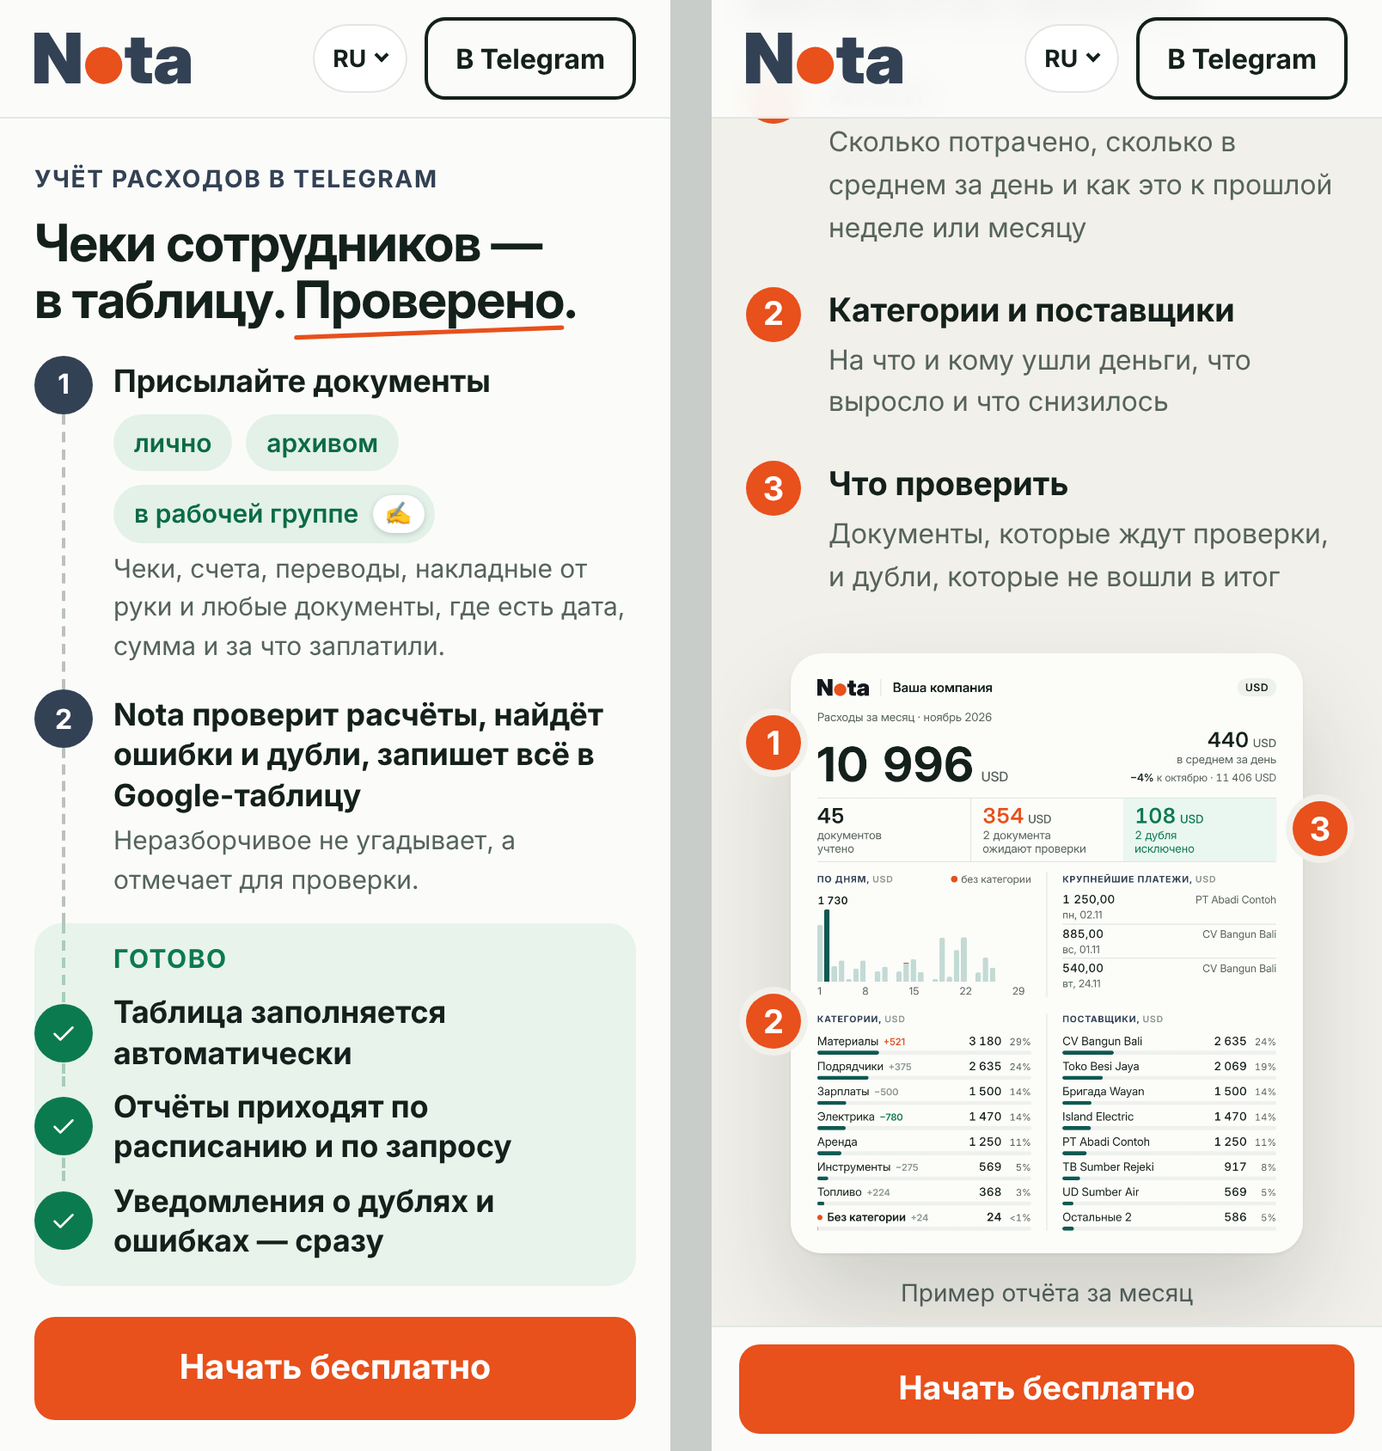
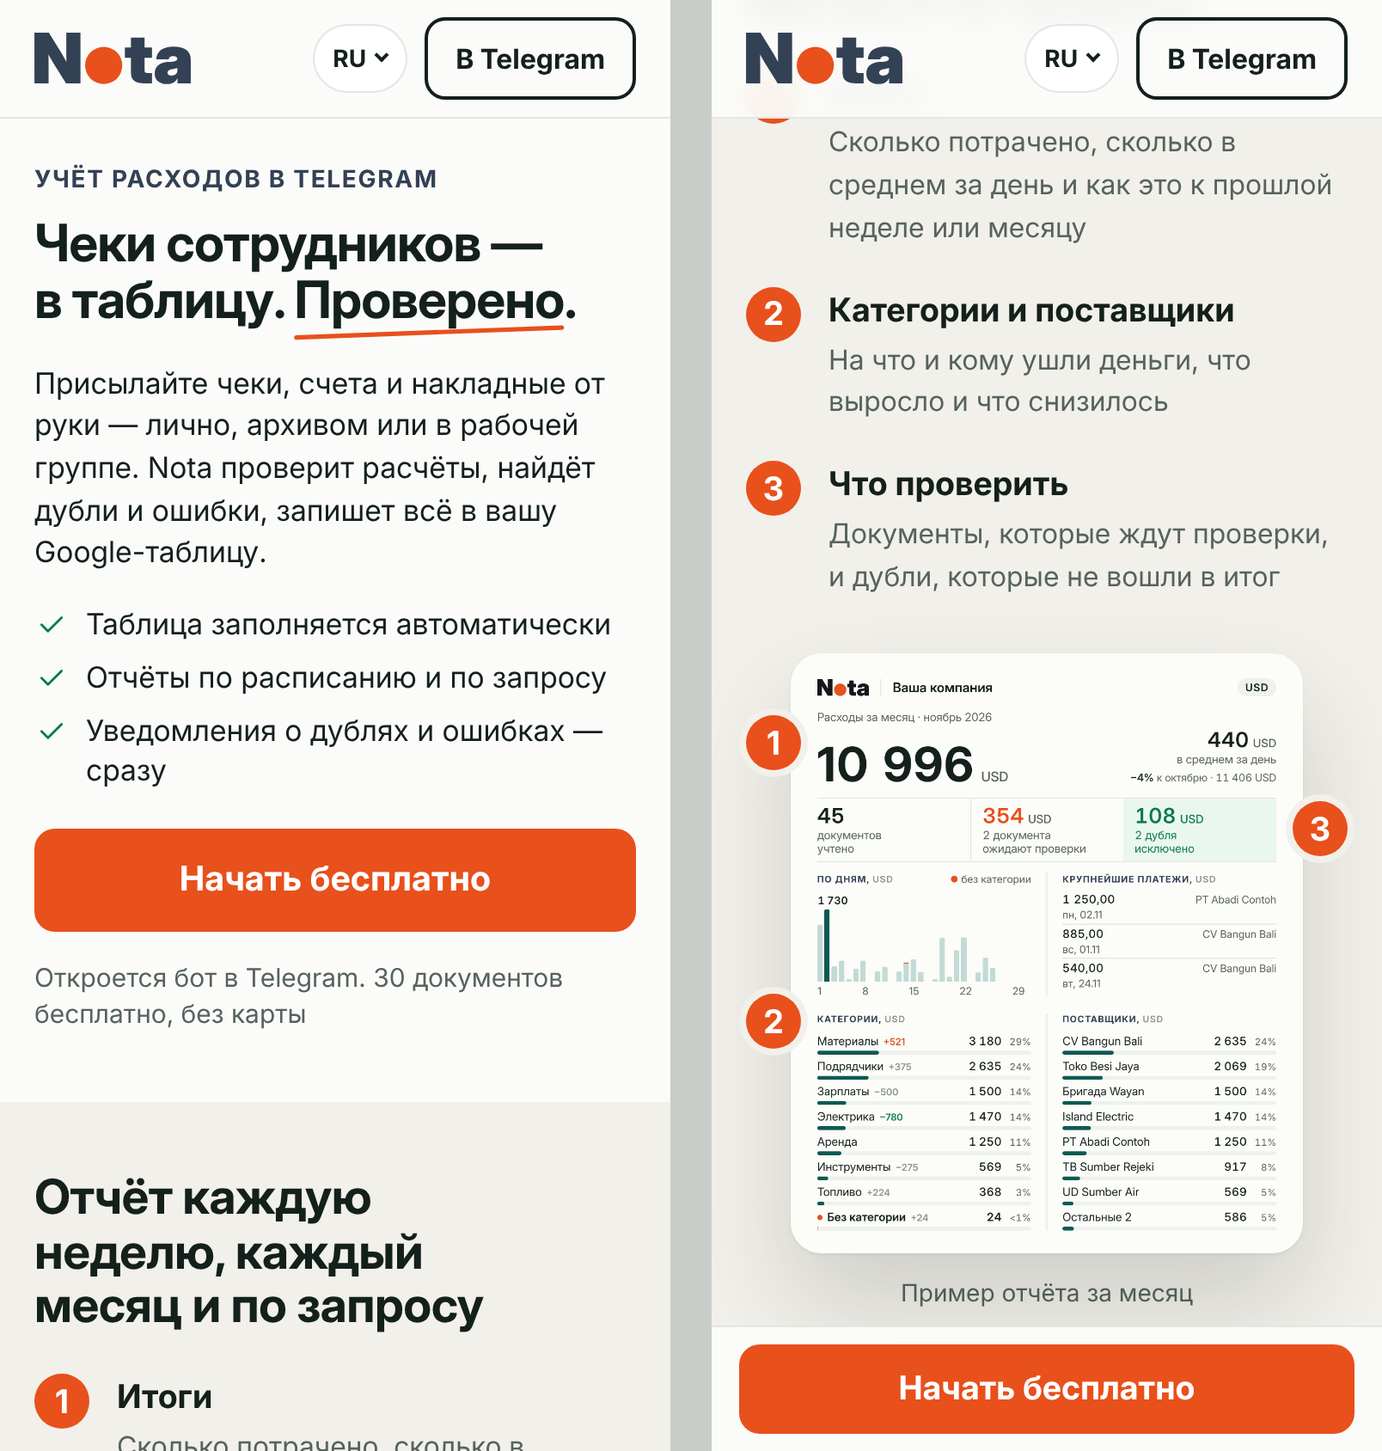
Landing v12 start: simpler first screen (lead, three points, CTA)
Founder: the first screen was overloaded. Removed step circles, dashed
line, method pills, the reaction badge and the Готово panel; the hero
now follows the archive variant's structure.

Claude-Session: https://claude.ai/code/session_01L3HhR7LSGwJtypFbeUeh92

Changed region(s): [[0.0, 0.2464, 0.4664, 1.0]]

diff --git a/nota/src/styles/global.css b/nota/src/styles/global.css
@@ -1107,29 +1107,8 @@ html:not([data-hero="old"]) .v10 .cta-qr, .v10 .cta-qr { max-width: 200px; }
 .v12s .s-hero { padding: 32px 0 48px; }
 .v12s .s-lead h1 { font-size: clamp(32px, 3.8vw, 48px); line-height: 1.1; margin: 0 0 28px; }
 .v12s .s-split { align-items: start; }
-/* Шаги: кружки 1–2 и галочки «Готово» на одной вертикали (x = 18 px), пунктир через их центры */
-.s-flow { list-style: none; margin: 0; padding: 0 0 0 18px; }
-.s-flow > li { display: flex; gap: 16px; align-items: flex-start; position: relative; padding-bottom: 26px; }
-.s-flow > li::before { content: ''; position: absolute; left: 16px; top: 34px; bottom: 0; border-left: 2px dashed #b9c2bd; }
-.s-n, .s-ok { flex: none; position: relative; z-index: 1; width: 34px; height: 34px; border-radius: 50%; display: grid; place-items: center; color: #fff; font-size: 16px; font-weight: 700; }
-.s-n { background: var(--slate); }
-.s-ok { background: var(--green); }
-.s-t { display: block; font-size: 21px; line-height: 1.3; padding-top: 3px; }
-.s-d { display: block; font-size: 16px; line-height: 1.5; color: var(--muted); margin-top: 6px; max-width: 590px; }
-/* Способы — метки-«таблетки», не кнопки (разбор 22.11: были похожи на кнопку и не нажимались) */
-.s-ways { list-style: none; display: flex; flex-wrap: wrap; gap: 8px; margin: 10px 0 0; padding: 0; }
-.s-ways li { display: inline-flex; align-items: center; gap: 8px; font-size: 16px; font-weight: 600; color: var(--green-text); background: #e3f1e9; border-radius: 999px; padding: 6px 14px; }
-/* ✍ — реакция бота на записанный документ, как в Telegram */
-.s-react { display: inline-grid; place-items: center; min-width: 30px; height: 22px; padding: 0 6px; margin-right: -6px; border-radius: 999px; background: #fff; box-shadow: 0 1px 3px rgba(20, 32, 27, .18); font-size: 13px; line-height: 1; }
-.s-done { position: relative; margin: 0 0 30px; padding: 18px 18px 20px 0; background: #e8f3ec; border-radius: 16px; }
-.s-done::before { content: ''; position: absolute; left: 34px; top: 0; height: 52px; border-left: 2px dashed #a9cdb7; }
-.s-done-h { margin: 0 0 14px 68px; font-size: 15px; line-height: 18px; font-weight: 700; letter-spacing: .05em; text-transform: uppercase; color: var(--green); }
-.s-done ul { list-style: none; margin: 0; padding: 0 0 0 18px; }
-.s-done li { display: flex; gap: 16px; align-items: center; position: relative; padding-bottom: 14px; }
-.s-done li:last-child { padding-bottom: 0; }
-.s-done li:not(:last-child)::before { content: ''; position: absolute; left: 16px; top: 34px; bottom: 0; border-left: 2px dashed #a9cdb7; }
-.s-done b { font-size: 20px; line-height: 1.3; }
-.s-ok .icon { color: #fff; }
+/* Левая колонка: подзаголовок, три пункта (как .hero-list у варианта с архивом), кнопка; по центру высоты отчёта */
+.v12s .s-left .lead { max-width: 560px; margin-top: 4px; }
 /* Отчёт с пояснениями */
 .s-notes { list-style: none; margin: 4px 0 32px; padding: 0; display: grid; gap: 22px; }
 .s-notes li { display: flex; gap: 16px; align-items: flex-start; }
@@ -1165,27 +1144,16 @@ html.s-js .v12s .s-story.on .s-mark { opacity: 1; transform: none; }
   html:not([data-rep="plain"]) .v9.v12s .story-fig .s-img { width: min(100%, calc((100vh - 150px) * 0.8538)); margin: 0 auto; }
   html:not([data-rep="plain"]) .v9.v12s #result { min-height: calc(min(609px, 100vh - 150px) + 34px + 112px); }
   .v12s .story-media .wrap { padding-top: 120px; } /* до JS: примерно высота заголовка; скрипт ставит точно */
+  .v12s .s-left { min-height: calc(min(609px, 100vh - 150px) + 34px); } /* первый экран высотой с отчёт: отчёт не свисает в следующий блок */
 }
 @media (max-width: 999px) {
   .v12s .s-fig-hero { display: none; }
 }
 @media (max-width: 640px) {
-  .v12s .s-hero { padding: 14px 0 32px; }
+  .v12s .s-hero { padding: 16px 0 32px; }
   .v12s .s-lead h1 { font-size: 30px; margin-bottom: 16px; }
   .v12s .s-lead .hero-eyebrow { margin-bottom: 10px; }
-  .s-flow { padding-left: 0; }
-  .s-flow > li { gap: 12px; padding-bottom: 14px; }
-  .s-flow > li::before { left: 16px; }
-  .s-t, .s-done b { font-size: 18px; }
-  .s-d { font-size: 15px; margin-top: 4px; }
-  .s-ways { margin-top: 8px; }
-  .s-ways li { font-size: 15px; padding: 5px 12px; }
-  .s-done { padding: 12px 14px 14px 0; margin-bottom: 18px; }
-  .s-done::before { left: 16px; height: 46px; }
-  .s-done-h { margin-left: 46px; margin-bottom: 10px; }
-  .s-done ul { padding-left: 0; }
-  .s-done li { gap: 12px; padding-bottom: 8px; }
-  .s-done li:not(:last-child)::before { left: 16px; }
+  .v12s .s-left .lead { font-size: 17px; line-height: 1.45; margin-bottom: 18px; }
   .s-notes b { font-size: 19px; line-height: 28px; }
   .s-notes li span:not(.s-mark) { font-size: 16px; }
 }

diff --git a/nota/src/data/content-v12.ts b/nota/src/data/content-v12.ts
@@ -12,25 +12,12 @@ export const start = {
   title: 'Чеки сотрудников — в таблицу. Проверено.',
   underline: 'Проверено',
   cta: 'Начать бесплатно',
-  // Разбор 22.11: кнопка не говорила, что откроется Telegram (в шапке то же действие — «Открыть в Telegram»)
-  ctaLine: 'Откроется бот в Telegram. 30 документов бесплатно, без карты и регистрации',
-  send: {
-    title: 'Присылайте документы',
-    // Основатель 22.11: про рабочую группу ничего не пишем — её предложит бот; просто три способа.
-    // У группы — реакция ✍, как в Telegram: бот ставит её на записанный документ (настоящая реакция бота, DESIGN.md).
-    ways: ['лично', 'архивом', 'в рабочей группе'],
-    react: 'в рабочей группе',
-    // Панель 21.11: без «рукописных накладных» результат падал вдвое (G 2 из 20, G2 5 из 20)
-    docs: 'Чеки, счета, переводы, накладные от руки и любые документы, где есть дата, сумма и за что заплатили.',
-  },
-  check: {
-    title: 'Nota проверит расчёты, найдёт ошибки и дубли, запишет всё в Google-таблицу',
-    note: 'Неразборчивое не угадывает, а отмечает для проверки.',
-  },
-  done: {
-    title: 'Готово',
-    items: ['Таблица заполняется автоматически', 'Отчёты приходят по расписанию и по запросу', 'Уведомления о дублях и ошибках — сразу'],
-  },
+  // 22.11, основатель: первый экран перегружен (кружки, пунктир, метки, ✍, плашка «Готово»). Стало: одно предложение
+  // о том, как это работает, три коротких пункта и кнопка — как устроен первый экран у варианта с архивом.
+  // В подзаголовке остаются три способа отправки и «накладные от руки» (без них на панели результат падал вдвое).
+  lead: 'Присылайте чеки, счета и\u00a0накладные от руки\u00a0— лично, архивом или в\u00a0рабочей группе. Nota проверит расчёты, найдёт дубли и\u00a0ошибки, запишет всё в\u00a0вашу Google-таблицу.',
+  points: ['Таблица заполняется автоматически', 'Отчёты по расписанию и\u00a0по\u00a0запросу', 'Уведомления о\u00a0дублях и\u00a0ошибках\u00a0— сразу'],
+  ctaLine: 'Откроется бот в Telegram. 30 документов бесплатно, без карты',
   // Отчёт за месяц, тестовые данные (founder/landing-start-sketch/month-report.py): ноябрь по 25-е, доллары
   report: {
     file: '/screens/report-month-1080.webp', file2x: '/screens/report-month-2160.webp', w: 1080, h: 1265,

diff --git a/founder/landing-v12-notes.md b/founder/landing-v12-notes.md
@@ -19,10 +19,11 @@
 
 - **Надзаголовок:** «Учёт расходов в Telegram».
 - **Заголовок:** «Чеки сотрудников — в таблицу. Проверено.», подчёркнуто «Проверено». Основатель 22.11 согласился, что «Учёт расходов в Telegram» — неудачный заголовок.
-- **Шаг 1** «Присылайте документы»: метки «лично», «архивом», «в рабочей группе». У группы — реакция ✍, как в Telegram. Про рабочую группу больше ничего не пишем: её предложит бот (основатель 22.11). Ниже — типы документов.
-- **Шаг 2** «Nota проверит расчёты, найдёт ошибки и дубли, запишет всё в Google-таблицу» и «Неразборчивое не угадывает, а отмечает для проверки».
-- **«Готово»:** таблица заполняется автоматически, отчёты по расписанию и по запросу, уведомления о дублях и ошибках сразу.
-- **Под кнопкой:** «Откроется бот в Telegram. 30 документов бесплатно, без карты и регистрации».
+- **Первый экран упрощён (основатель 22.11: «перегружено, столько форматов, иконок, текста, структура непонятна»).** Убраны кружки шагов, пунктир, зелёные метки, реакция ✍ и плашка «Готово». Теперь как у варианта с архивом:
+  - подзаголовок: «Присылайте чеки, счета и накладные от руки — лично, архивом или в рабочей группе. Nota проверит расчёты, найдёт дубли и ошибки, запишет всё в вашу Google-таблицу.» Три способа и «накладные от руки» оставлены: без «рукописных» на панели результат падал вдвое;
+  - три пункта с галочками: «Таблица заполняется автоматически», «Отчёты по расписанию и по запросу», «Уведомления о дублях и ошибках — сразу»;
+  - кнопка, QR и строка «Откроется бот в Telegram. 30 документов бесплатно, без карты».
+  - Ушла строка «Неразборчивое не угадывает, а отмечает для проверки» — её стоит вернуть ниже, в «Что Nota делает» или в вопросы.
 - **Блок отчёта:**
   - Отчёт за месяц в долларах. Владелец думает и в долларах, и в рупиях; таблицу основатель переведёт в доллары.
   - Пояснения по важности: итоги, категории и поставщики, что проверить.
@@ -34,8 +35,8 @@
 
 | Замечание | Что сделано |
 |---|---|
-| На телефоне кнопка ниже первого экрана (на 197 px) | Подтянуты отступы и размеры на телефоне: нижний край кнопки на 826 px при экране 844 |
-| Метки способов похожи на кнопки | Стали «таблетками» (радиус 999 px, 16 px, тоньше) |
+| На телефоне кнопка ниже первого экрана (на 197 px) | После упрощения первого экрана нижний край кнопки на 542 px при экране 844 |
+| Метки способов похожи на кнопки | Меток больше нет: способы названы в подзаголовке |
 | Цифра 3 стоит у «45 документов учтено» | Перенесена вправо, к ячейкам «на проверку» и «дубли» |
 | На телефоне цифры закрывают текст отчёта | Цифры вынесены за край картинки |
 | Белые цифры 15 px на оранжевом (3,75:1) | 19 px жирным — по правилу DESIGN.md |
@@ -49,8 +50,7 @@
 
 ## Что сознательно не трогали
 
-- **Доверие к боту в рабочей группе.** По решению основателя про группу на сайте не пишем, только метка и реакция ✍.
-- **Повторы между шагом 2 и «Готово».** Оба набора пунктов основатель задал сам.
+- **Доверие к боту в рабочей группе.** По решению основателя про группу на сайте не пишем: она только названа среди способов отправки.
 - **Порядок цифр 1→3→2 на карточке.** Пункты стоят по важности, по решению основателя.
 - **Надзаголовок, подчёркивание слова в заголовке, подписи капсом.** Impeccable считает их приметами шаблона, но это утверждённый стиль сайта.
 

diff --git a/nota/DESIGN.md b/nota/DESIGN.md
@@ -91,7 +91,6 @@
 
 Новый первый экран и блок отчёта — только внутри `.v12s` (страница `/v12/`). Подробно — `founder/landing-v12-notes.md`.
 
-- Метки способов отправки (`.s-ways`) — «таблетки» 999 px, 16 px, не похожи на кнопки. У «в рабочей группе» — реакция ✍ в белой «таблетке», как в Telegram (`.s-react`).
-- Шаги и «Готово»: кружки цифр (`--slate`) и галочек (`--green`) на одной вертикали, пунктир через их центры.
+- Первый экран — как у варианта с архивом: подзаголовок `.lead`, три пункта `.hero-list` с галочками, кнопка. Кружки шагов, метки и плашку «Готово» основатель 22.11 убрал: перегружено.
 - Цифры-пояснения на отчёте (`.s-mark`): оранжевый круг 32 px, цифра 19 px жирным (белый на оранжевом — только так). Появляются на скользящем отчёте за 0,26 с с ease-out `cubic-bezier(.23, 1, .32, 1)`; при «меньше движения» — только проявление.
 - Пример отчёта за месяц: `public/screens/report-month-1080.webp` и `-2160.webp` (1080 × 1265).
